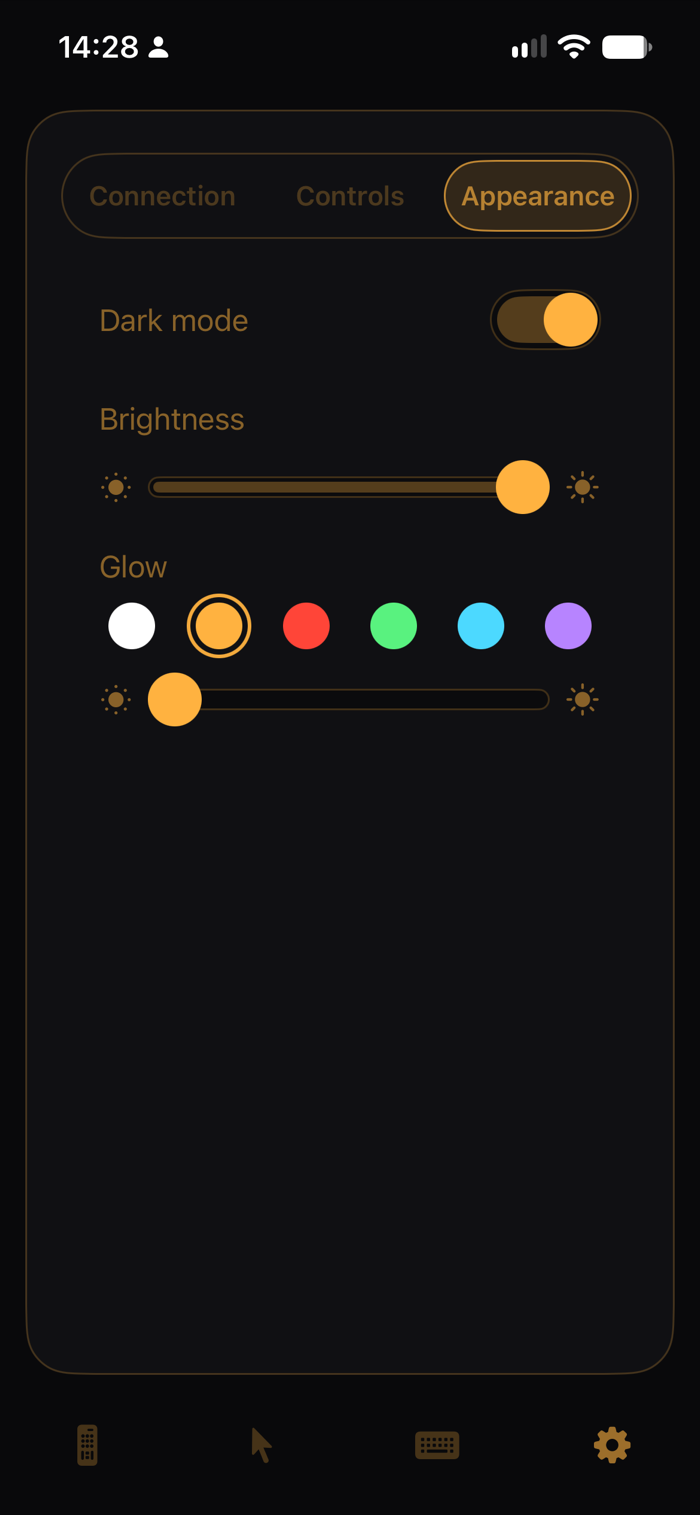
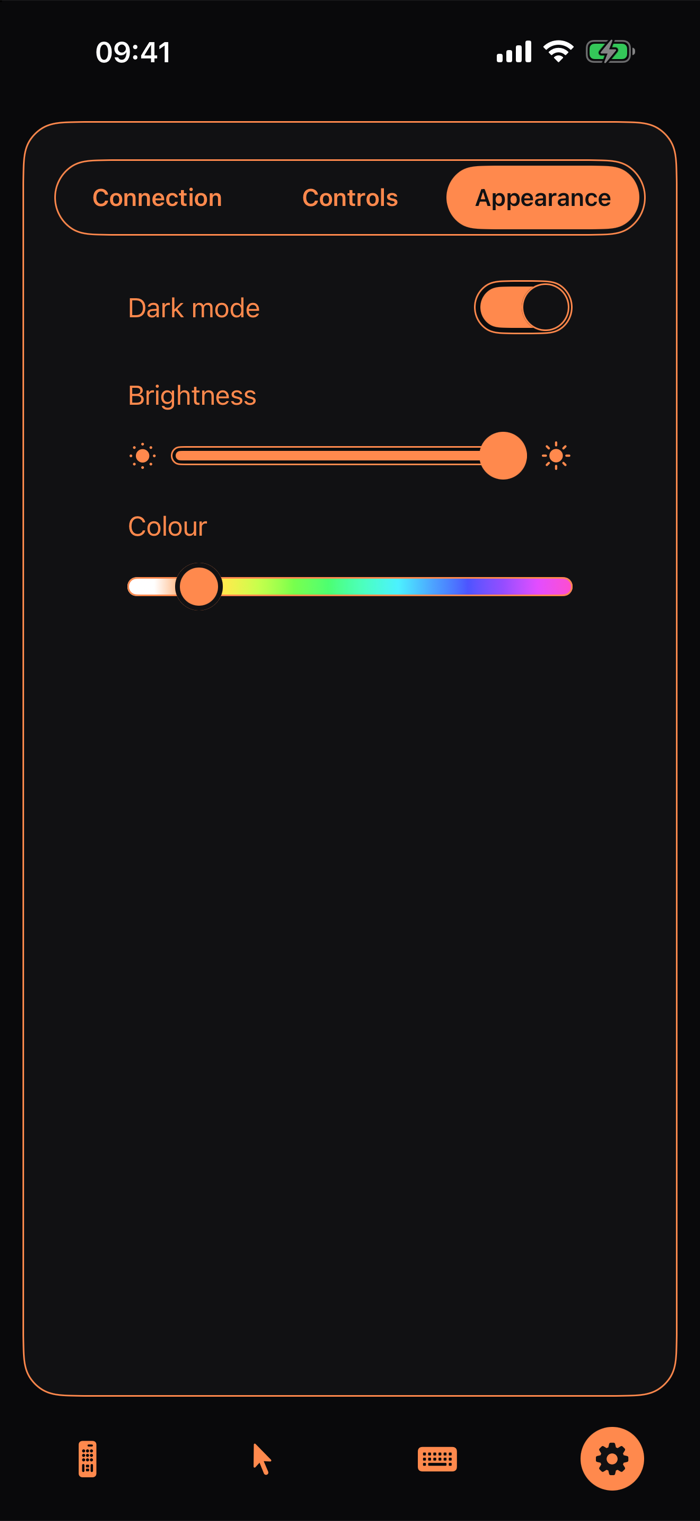
Show the new dark-mode screenshots

diff --git a/index.html b/index.html
@@ -95,9 +95,9 @@
       <figcaption>The remote: play, pause, skip, volume, brightness and fullscreen.</figcaption>
     </figure>
     <figure>
-      <img src="/assets/screens/remote-dark-glow.png" width="700" height="1515" loading="lazy"
-           alt="The Couchpad remote in dark mode, in white on black.">
-      <figcaption>Dark mode: white on black, or any colour you like.</figcaption>
+      <img src="/assets/screens/remote-dark.png" width="700" height="1515" loading="lazy"
+           alt="The Couchpad remote in dark mode: orange controls and sliders on black.">
+      <figcaption>Dark mode: black with a colour you choose.</figcaption>
     </figure>
     <figure>
       <img src="/assets/screens/typing.png" width="700" height="1515" loading="lazy"
@@ -111,7 +111,7 @@
     </figure>
     <figure>
       <img src="/assets/screens/appearance-dark.png" width="700" height="1515" loading="lazy"
-           alt="Couchpad's Appearance settings in dark mode: a dark mode switch, a brightness slider and a colour slider.">
+           alt="Couchpad's Appearance settings in dark mode: a dark mode switch, a brightness slider and a rainbow colour slider.">
       <figcaption>Dim it and pick a colour, for dark rooms.</figcaption>
     </figure>
   </div>
